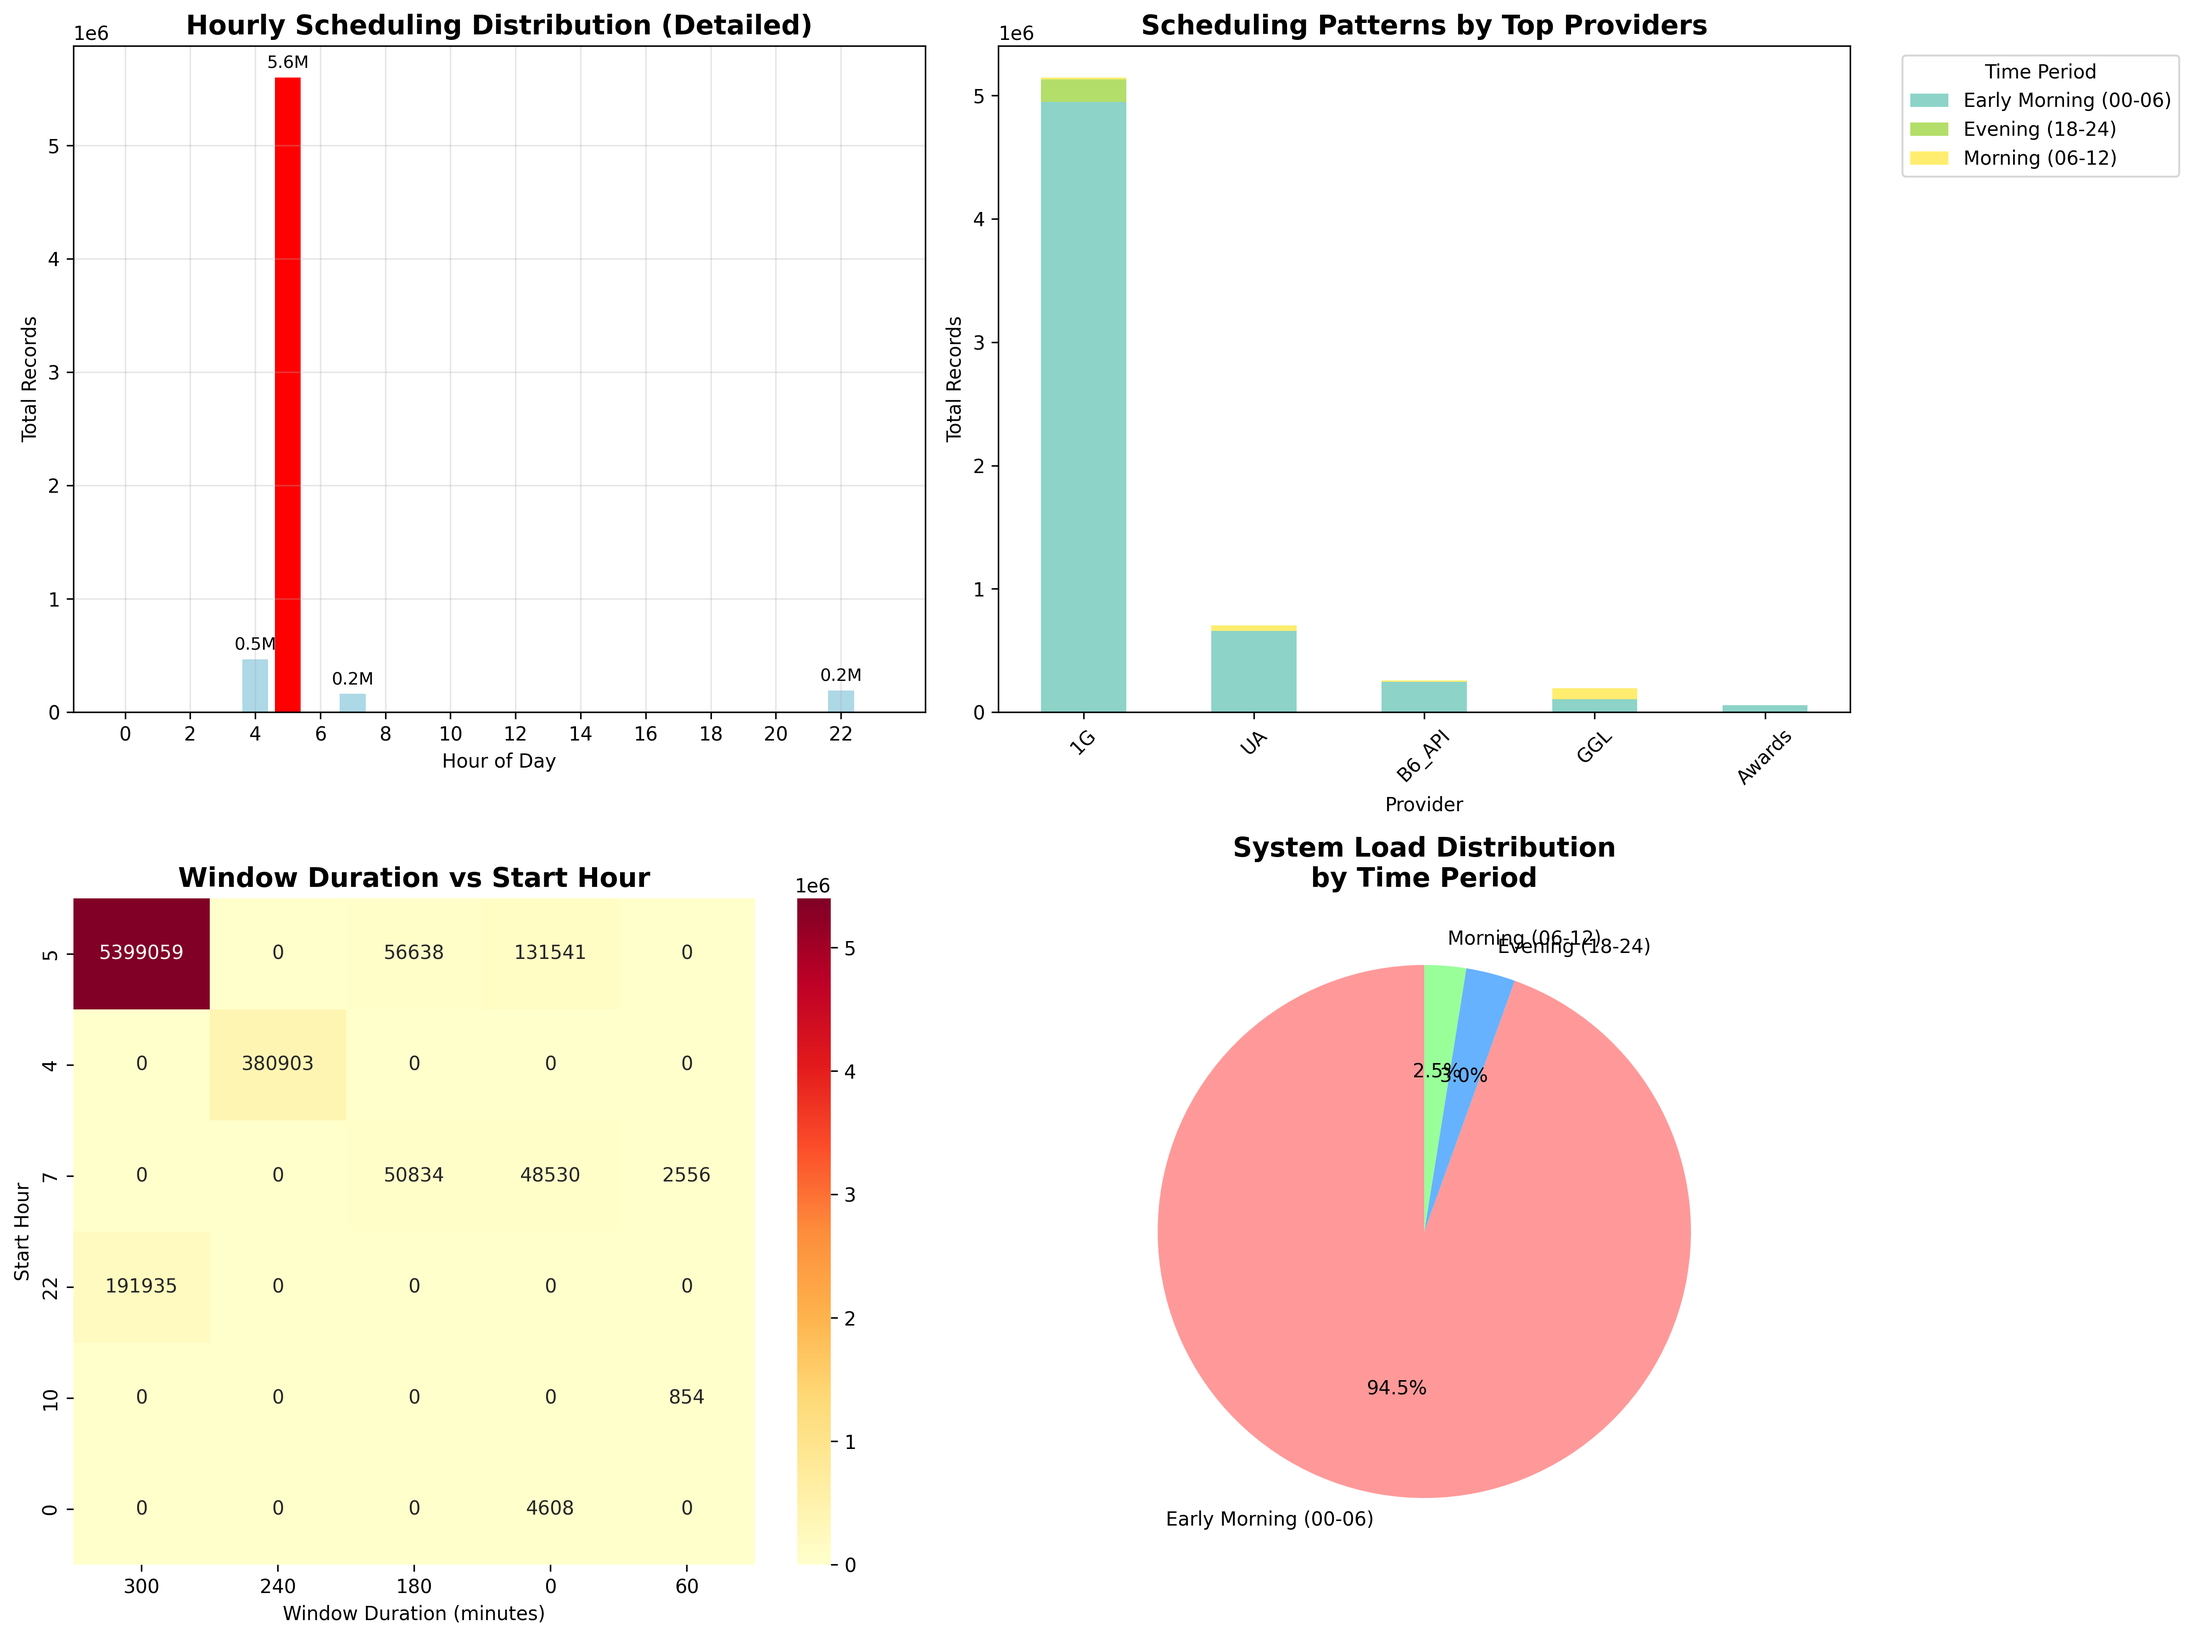
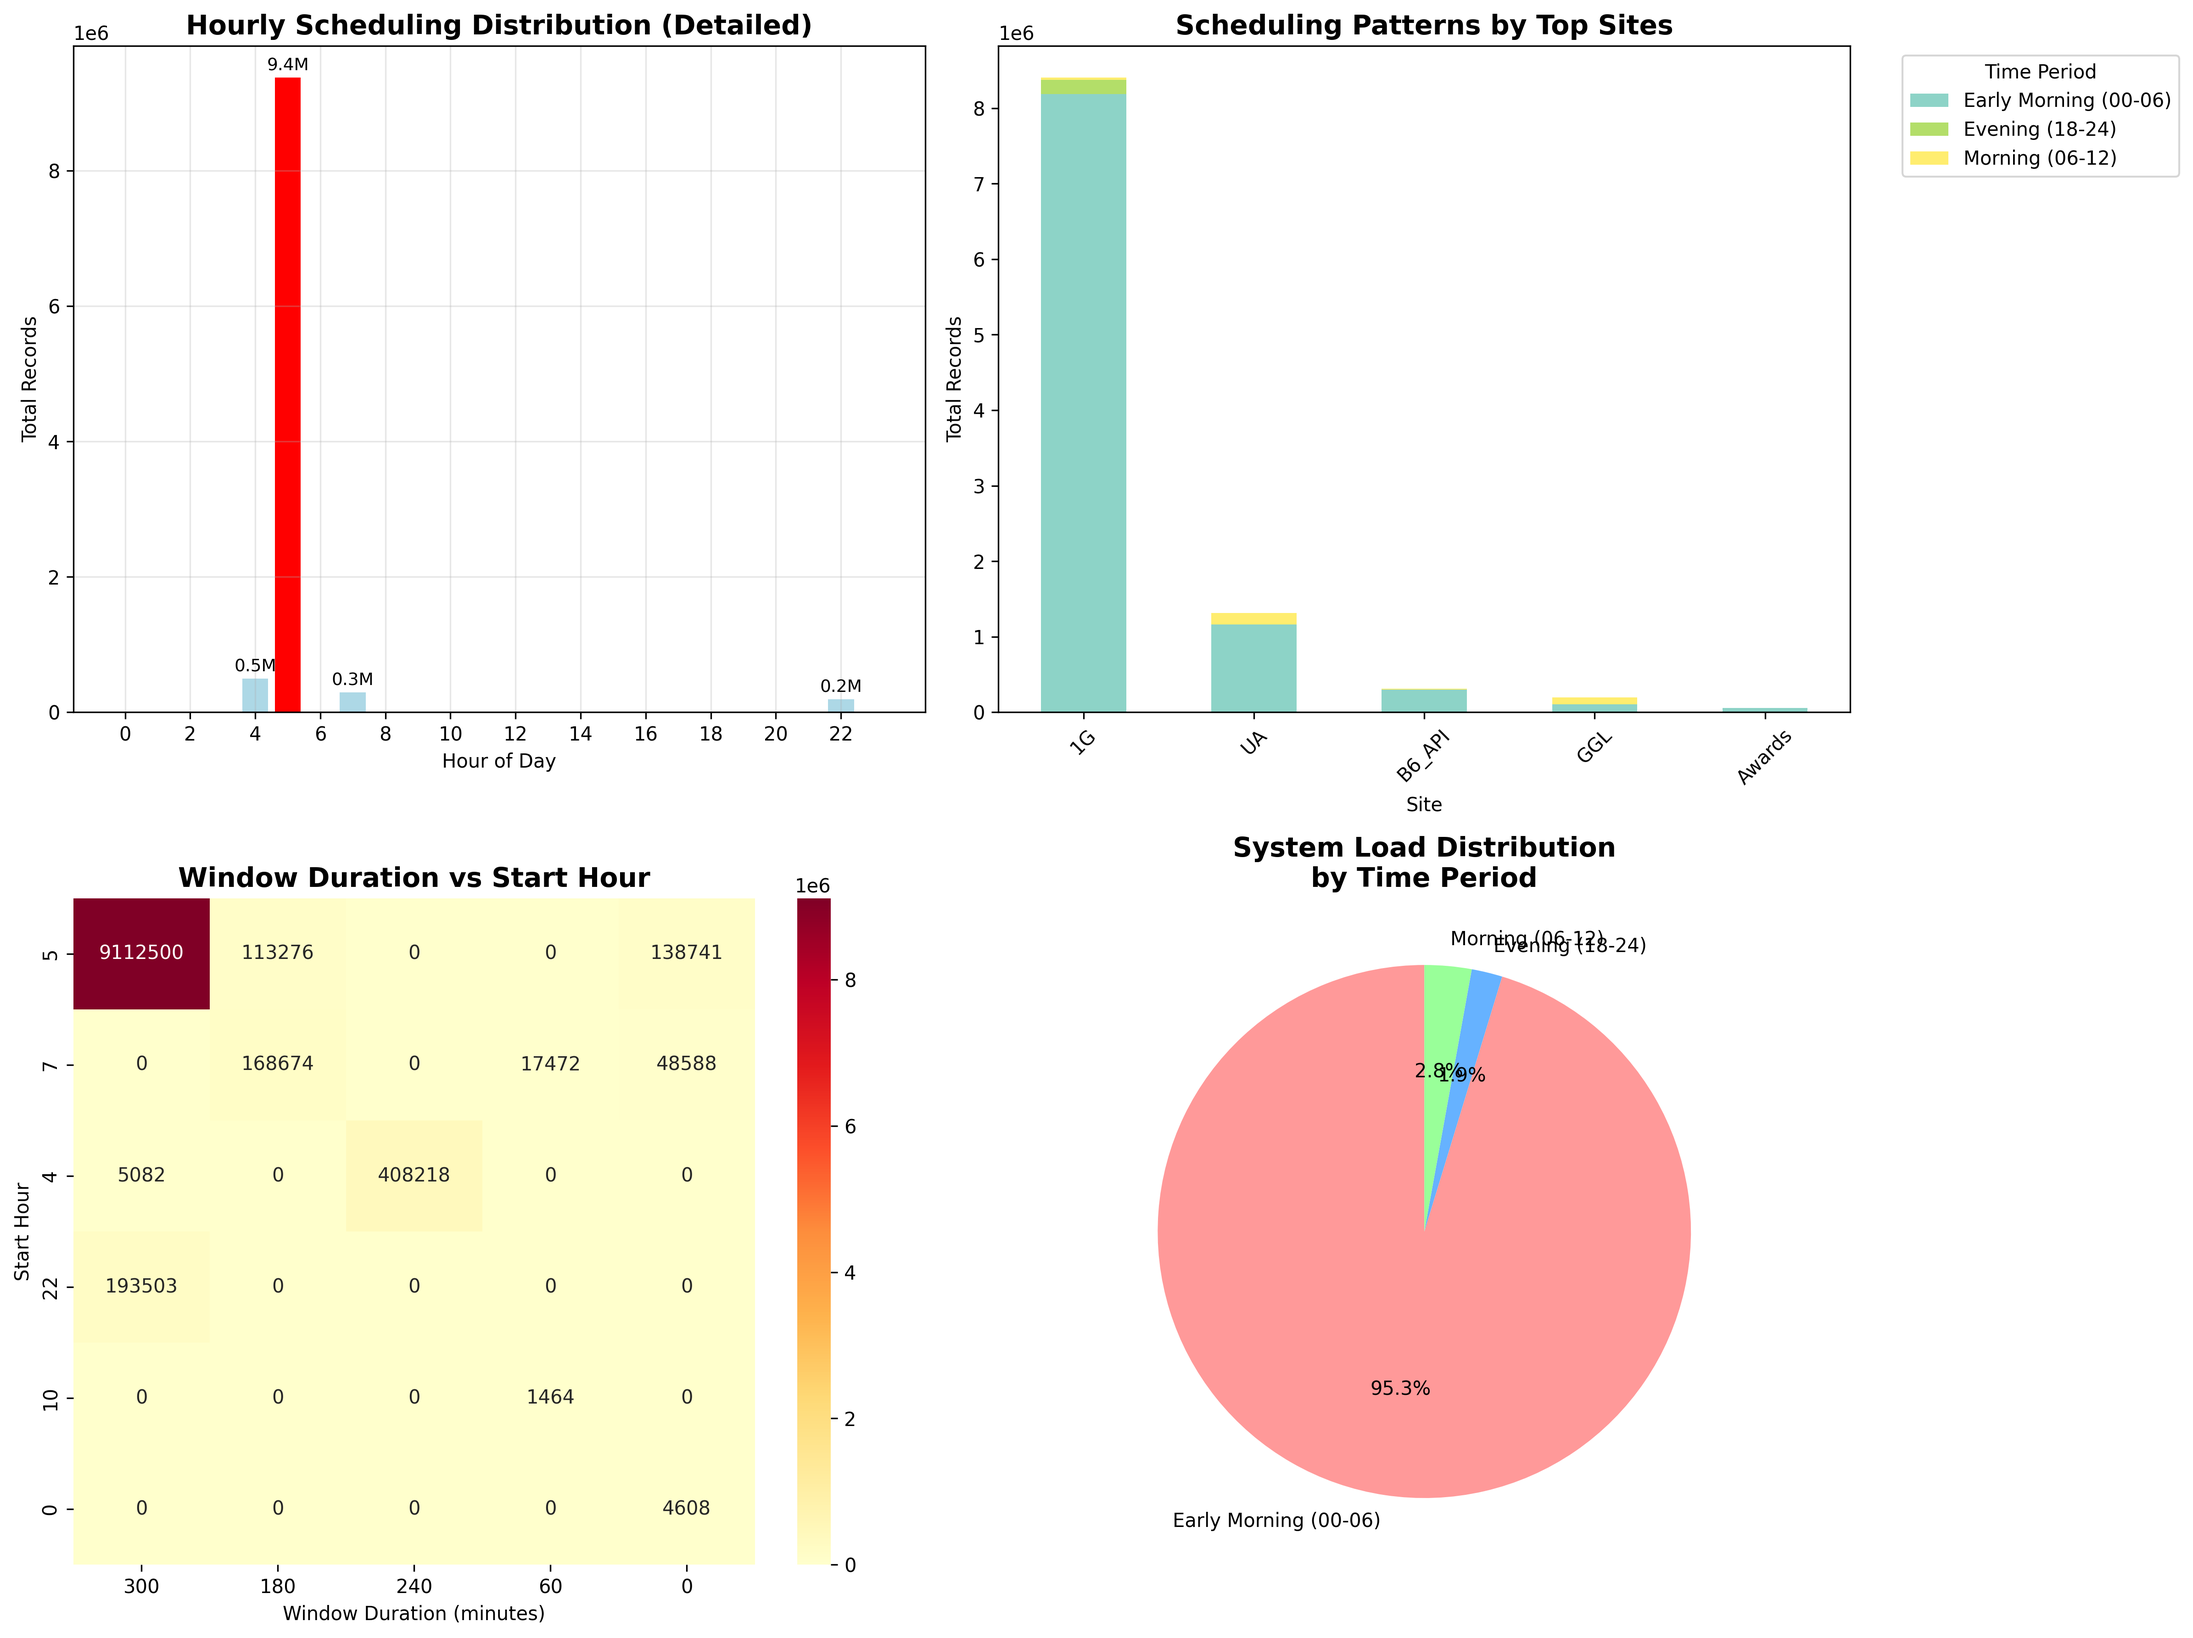
Fixed duplicate column names in combined_all_data_grouped.csv and updated downstream dependencies

diff --git a/streamlit_scheduler_explorer.py b/streamlit_scheduler_explorer.py
@@ -497,6 +497,42 @@ def main():
                             ]
                         })
                         st.dataframe(duration_stats, use_container_width=True, hide_index=True)
+            
+            # Owner timeBox analysis
+            if 'owner_timeBox_startTime_time' in filtered_df.columns:
+                st.subheader("Owner-Specific Time Analysis")
+                
+                col1, col2 = st.columns(2)
+                with col1:
+                    # Owner sequence distribution
+                    if 'ownerSequence' in filtered_df.columns:
+                        owner_dist = filtered_df.groupby('ownerSequence')['row_count'].sum().sort_index()
+                        st.write("**Distribution by Owner Sequence:**")
+                        owner_dist_df = owner_dist.to_frame('Total Records')
+                        owner_dist_df['Percentage'] = (owner_dist_df['Total Records'] / owner_dist_df['Total Records'].sum() * 100).round(1)
+                        st.dataframe(owner_dist_df, use_container_width=True)
+                
+                with col2:
+                    # Compare main vs owner time windows
+                    time_comparison = []
+                    for _, row in filtered_df.iterrows():
+                        if (pd.notna(row['timeBox_startTime_time']) and pd.notna(row['owner_timeBox_startTime_time']) and
+                            pd.notna(row['timeBox_endTime_time']) and pd.notna(row['owner_timeBox_endTime_time'])):
+                            main_start = time_to_decimal_hour(row['timeBox_startTime_time'])
+                            owner_start = time_to_decimal_hour(row['owner_timeBox_startTime_time'])
+                            if main_start is not None and owner_start is not None:
+                                time_comparison.append({
+                                    'Same Start Time': main_start == owner_start,
+                                    'Records': row['row_count']
+                                })
+                    
+                    if time_comparison:
+                        comp_df = pd.DataFrame(time_comparison)
+                        comp_summary = comp_df.groupby('Same Start Time')['Records'].sum()
+                        st.write("**Main vs Owner Time Window Comparison:**")
+                        comp_display = comp_summary.to_frame('Total Records')
+                        comp_display['Percentage'] = (comp_display['Total Records'] / comp_display['Total Records'].sum() * 100).round(1)
+                        st.dataframe(comp_display, use_container_width=True)
         else:
             st.warning("No data matches the selected filters.")
     
@@ -591,7 +627,8 @@ def main():
             # Default columns to show
             default_cols = [
                 'collection_frequency', 'provider', 'site', 'customerCollection_customer',
-                'timeBox_startTime_time', 'timeBox_endTime_time', 'row_count'
+                'timeBox_startTime_time', 'timeBox_endTime_time', 'ownerSequence',
+                'owner_timeBox_startTime_time', 'owner_timeBox_endTime_time', 'row_count'
             ]
             
             available_cols = filtered_df.columns.tolist()

diff --git a/combine_all_data.py b/combine_all_data.py
@@ -94,16 +94,16 @@ def flatten_record(record, collection_frequency=None, hourly_collection_plan_id=
             # inputRequest: no columns (just track existence)
             flattened['inputRequest_exists'] = 1 if 'inputRequest' in owner else 0
             
-            # timebox: all columns (without suffix)
+            # owner timeBox: all columns (with owner prefix to distinguish from top-level timeBox)
             if 'timeBox' in owner:
                 tb = owner['timeBox']
                 for key, value in tb.items():
                     if isinstance(value, dict):
                         # Handle nested time objects
                         for subkey, subvalue in value.items():
-                            flattened[f'timebox_{key}_{subkey}'] = subvalue
+                            flattened[f'owner_timeBox_{key}_{subkey}'] = subvalue
                     else:
-                        flattened[f'timebox_{key}'] = value
+                        flattened[f'owner_timeBox_{key}'] = value
             
             result_rows.append(flattened)
     else:

diff --git a/autoscheduler_analysis_report.md b/autoscheduler_analysis_report.md
@@ -1,0 +1,31 @@
+# Autoscheduler Output Analysis Report with Time Insights & Visualizations
+Generated from 506 unique configurations
+
+## Executive Summary
+- **Total Original Records**: 10,366,268
+- **Unique Configurations**: 506
+- **Data Compression**: 20486.7x
+
+## Generated Visualizations
+- **autoscheduler_analysis_dashboard.png**: Comprehensive 12-panel dashboard
+- **autoscheduler_time_analysis.png**: Time-focused analysis charts
+
+## Collection Frequency Distribution
+- **ADHOC**: 4,608 records (0.0%) across 2 configurations
+- **CHNL**: 3,984 records (0.0%) across 10 configurations
+- **DAILY**: 10,357,676 records (99.9%) across 494 configurations
+
+## Scheduling Time Distribution
+- **Early Morning (00-06)**: 9,877,525 records (95.3%)
+- **Morning (06-12)**: 295,240 records (2.8%)
+- **Evening (18-24)**: 193,503 records (1.9%)
+
+## Peak Scheduling Time
+- **Peak Hour**: 05:00 with 9,373,917 records (90.4%)
+
+## Top Sites by Volume
+1. **1G**: 8,403,845 records (81.1%)
+2. **UA**: 1,313,792 records (12.7%)
+3. **B6_API**: 313,312 records (3.0%)
+4. **GGL**: 196,794 records (1.9%)
+5. **Awards**: 57,222 records (0.6%)

diff --git a/README_streamlit.md b/README_streamlit.md
@@ -74,7 +74,9 @@ Ensure you have the required data file:
 The application works with grouped data containing:
 - **506 unique configurations** (compressed from 10M+ original records)
 - **31 columns** including:
-  - Time windows (`timeBox_startTime_time`, `timeBox_endTime_time`)
+  - **Top-level time windows** (`timeBox_startTime_time`, `timeBox_endTime_time`, `timeBox_startTime_date`, `timeBox_endTime_date`) - Overall scheduling window for the entire record
+  - **Owner-specific time windows** (`owner_timeBox_startTime_time`, `owner_timeBox_endTime_time`, `owner_timeBox_startTime_date`, `owner_timeBox_endTime_date`) - Specific scheduling windows for individual request owners
+  - **Owner sequence** (`ownerSequence`) - Identifies multiple owners within a single record (1-6 owners possible)
   - Provider information (`provider`, `site`)
   - Customer data (`customerCollection_customer`)
   - Scheduling metadata
